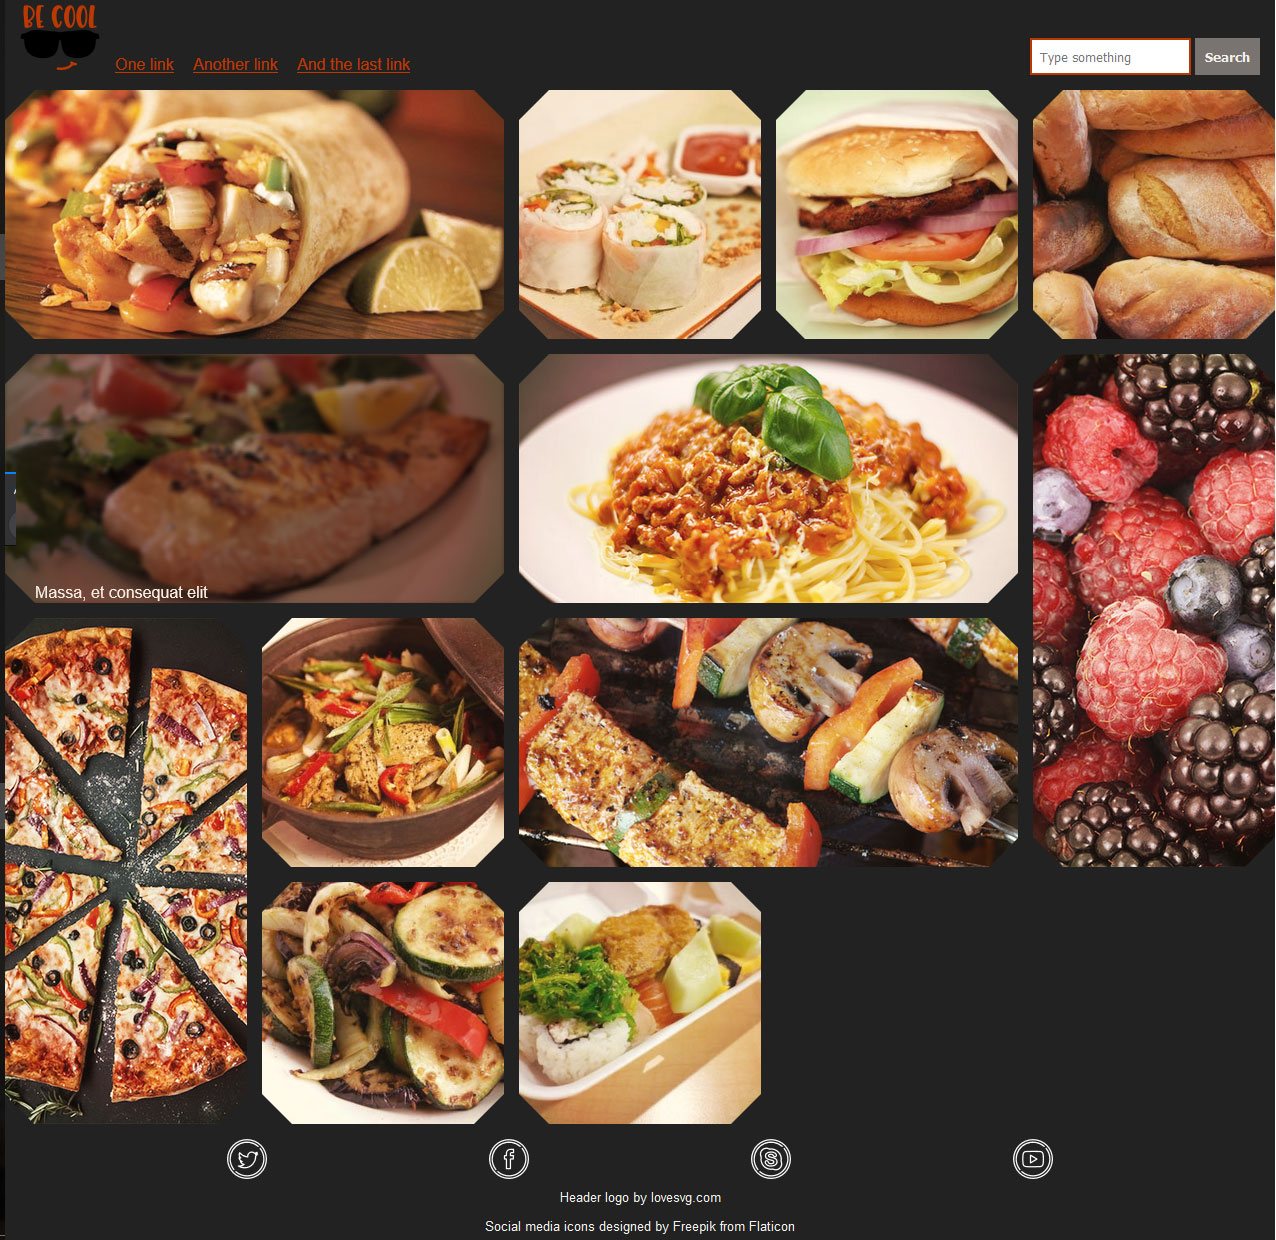
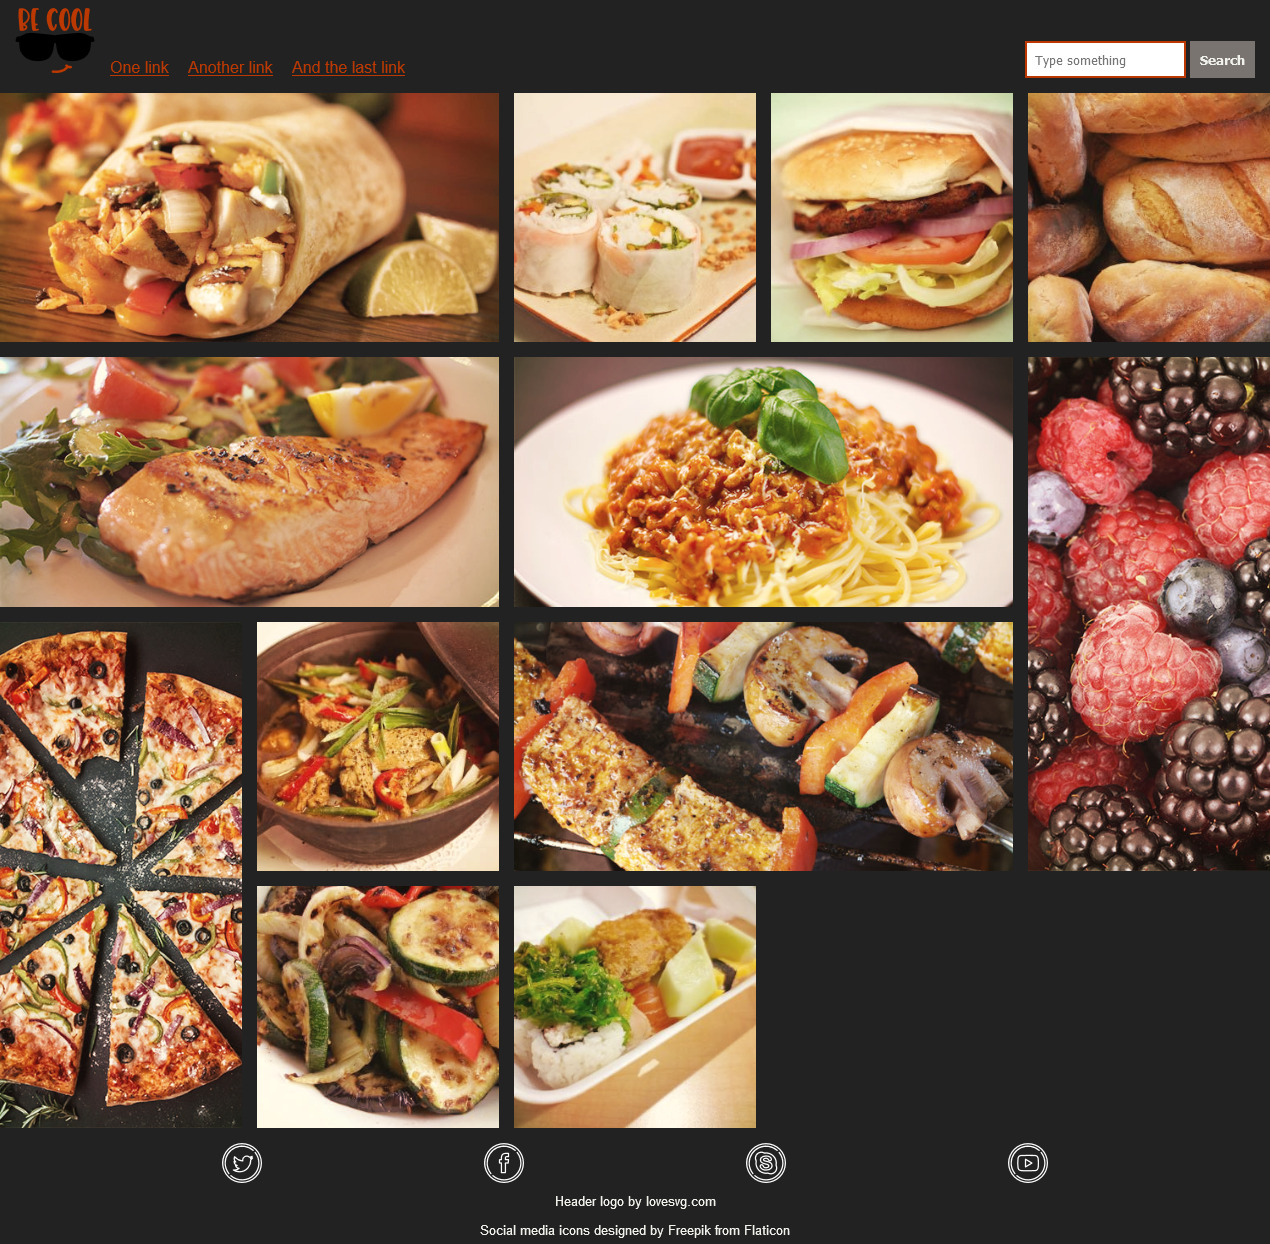
Base files

diff --git a/index.html b/index.html
@@ -1,0 +1,82 @@
+<!DOCTYPE html>
+<html>
+  <head>
+    <link rel="stylesheet" href="style.css">
+  </head>
+  <body>
+    <header>
+      <div class="logo">
+        <img src="./assets/becool.svg" alt="be cool" />
+      </div>
+      <nav>
+        <a href="#">One link</a>
+        <a href="#">Another link</a>
+        <a href="#">And the last link</a>
+      </nav>
+      <form>
+        <input type="search" placeholder="Type something" />
+        <button>Search</button>
+      </form>
+    </header>
+    <main>
+      <div tabindex="0">
+        <img src="./assets/dummy1.jpg"/>
+        <span>Lorem ipsum</span>
+      </div>
+      <div tabindex="0">
+        <img src="./assets/dummy2.jpg"/>
+        <span>Dolor sit amet, consectetur adipiscing elit</span>
+      </div>
+      <div tabindex="0">
+        <img src="./assets/dummy3.jpg"/>
+        <span>Pellentesque at iaculis dolor</span>
+      </div>
+      <div tabindex="0">
+        <img src="./assets/dummy4.jpg"/>
+        <span>Suspendisse nec viverra</span>
+      </div>
+      <div tabindex="0">
+        <img src="./assets/dummy5.jpg"/>
+        <span>Massa, et consequat elit</span>
+      </div>
+      <div tabindex="0">
+        <img src="./assets/dummy6.jpg"/>
+        <span>Donec sollicitudin</span>
+      </div>
+      <div tabindex="0">
+        <img src="./assets/dummy7.jpg"/>
+        <span>Quam nec enim condimentum</span>
+      </div>
+      <div tabindex="0">
+        <img src="./assets/dummy8.jpg"/>
+        <span>Eget finibus felis pretium</span>
+      </div>
+      <div tabindex="0">
+        <img src="./assets/dummy9.jpg"/>
+        <span>Nullam eros arcu</span>
+      </div>
+      <div tabindex="0">
+        <img src="./assets/dummy10.jpg"/>
+        <span>Finibus sed fringilla vel</span>
+      </div>
+      <div tabindex="0">
+        <img src="./assets/dummy11.jpg"/>
+        <span>Bibendum non dui</span>
+      </div>
+      <div tabindex="0">
+        <img src="./assets/dummy12.jpg"/>
+        <span>In mattis odio mi, quis ornare velit venenatis</span>
+      </div>
+    </main>
+    <footer>
+      <div class="social-logos">
+        <a href="#"><img alt="twitter" src="./assets/social-color/twitter.svg"/></a>
+        <a href="#"><img alt="facebook" src="./assets/social-color/facebook.svg"/></a>
+        <a href="#"><img alt="skype" src="./assets/social-color/skype.svg"/></a>
+        <a href="#"><img alt="youtube" src="./assets/social-color/youtube.svg"/></a>
+      </div>
+      <p>Header logo by lovesvg.com</p>
+      <p>Social media icons designed by Freepik from Flaticon</p>
+    </footer>
+  </body>
+</html>

diff --git a/style.css b/style.css
@@ -1,0 +1,30 @@
+/* Generic styles */
+body {
+  font-family: Arial, Helvetica, sans-serif;
+  font-weight: 500;
+  margin: 0;
+}
+input {
+  padding: 0.5rem;
+}
+button {
+  font-weight: bold;
+  padding: 0.5rem;
+}
+button:hover {
+  cursor: pointer;
+}
+.logo img {
+  max-width: 150px;
+  min-width: 80px;
+  width: 100%;
+}
+/* Main content */
+main img {
+  display: block;
+  max-width: 250px;
+}
+/* Footer */
+.social-logos img {
+  height: 40px;
+}

diff --git a/readme.md b/readme.md
@@ -1,0 +1,7 @@
+# CSS en 2018
+
+[Slides](http://slides.com/paquicalabria/t3chfest/fullscreen)
+
+Preview:
+
+![](./result.jpg)
